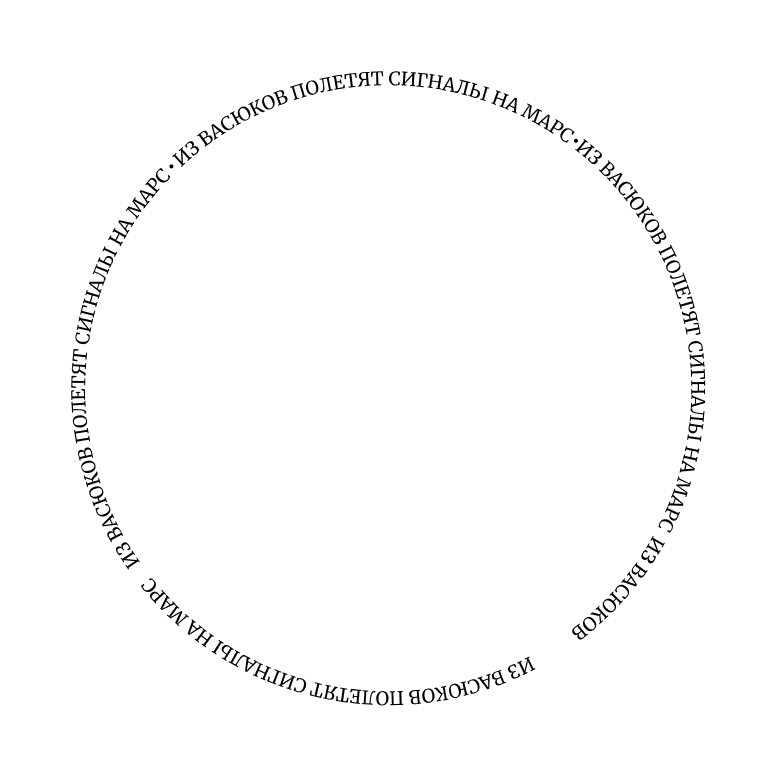
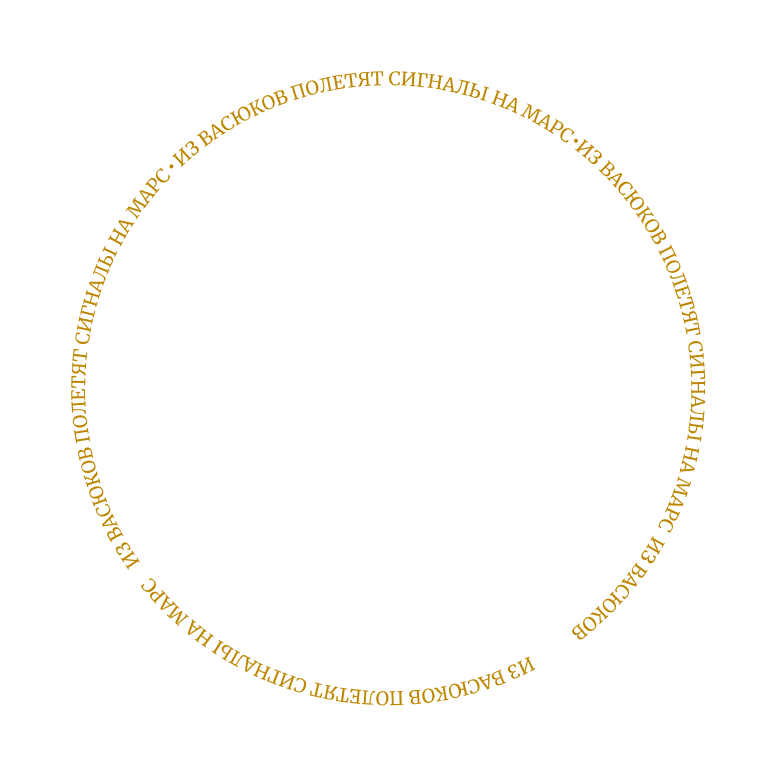
changing text in yellow circle

diff --git a/style.css b/style.css
@@ -107,7 +107,7 @@ body {
 .yellow-circle {
     width: 660px;
     height: 660px;
-    background-color: #FBCE51;
+    background-color: #ffbc00;
     border-radius: 100%;
     margin-left: 64px;
     margin-bottom: 100px;
